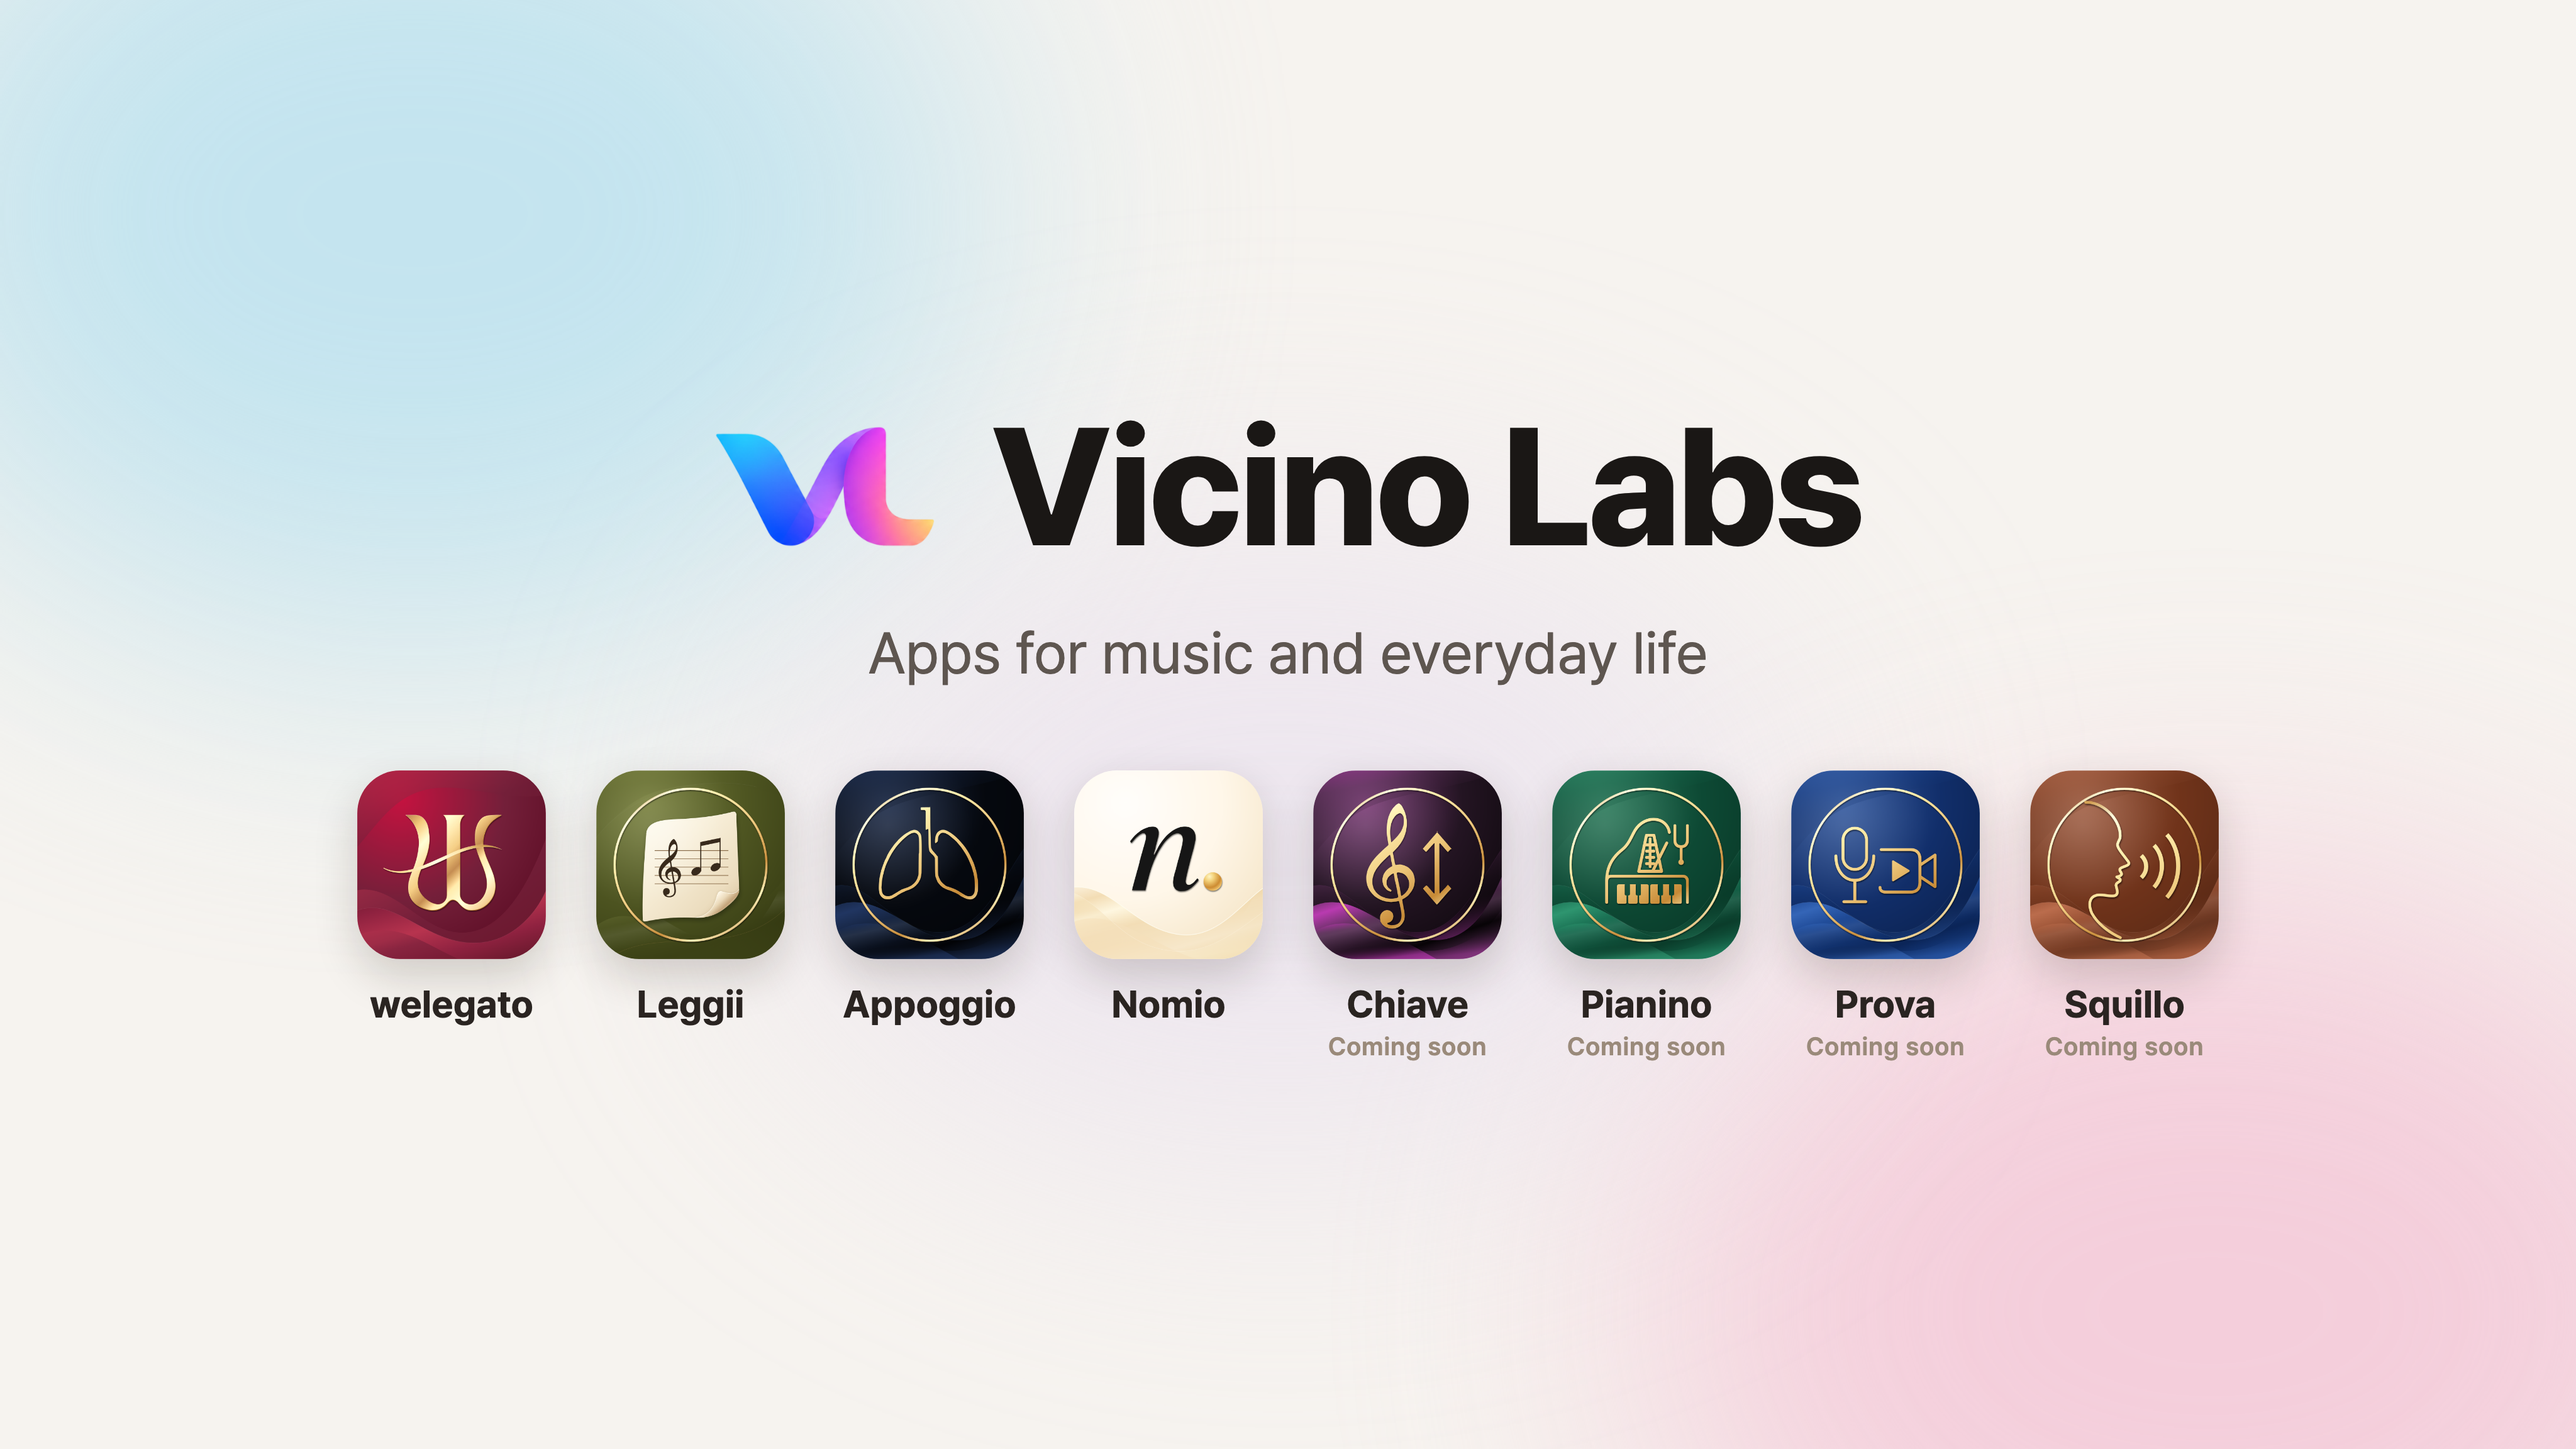
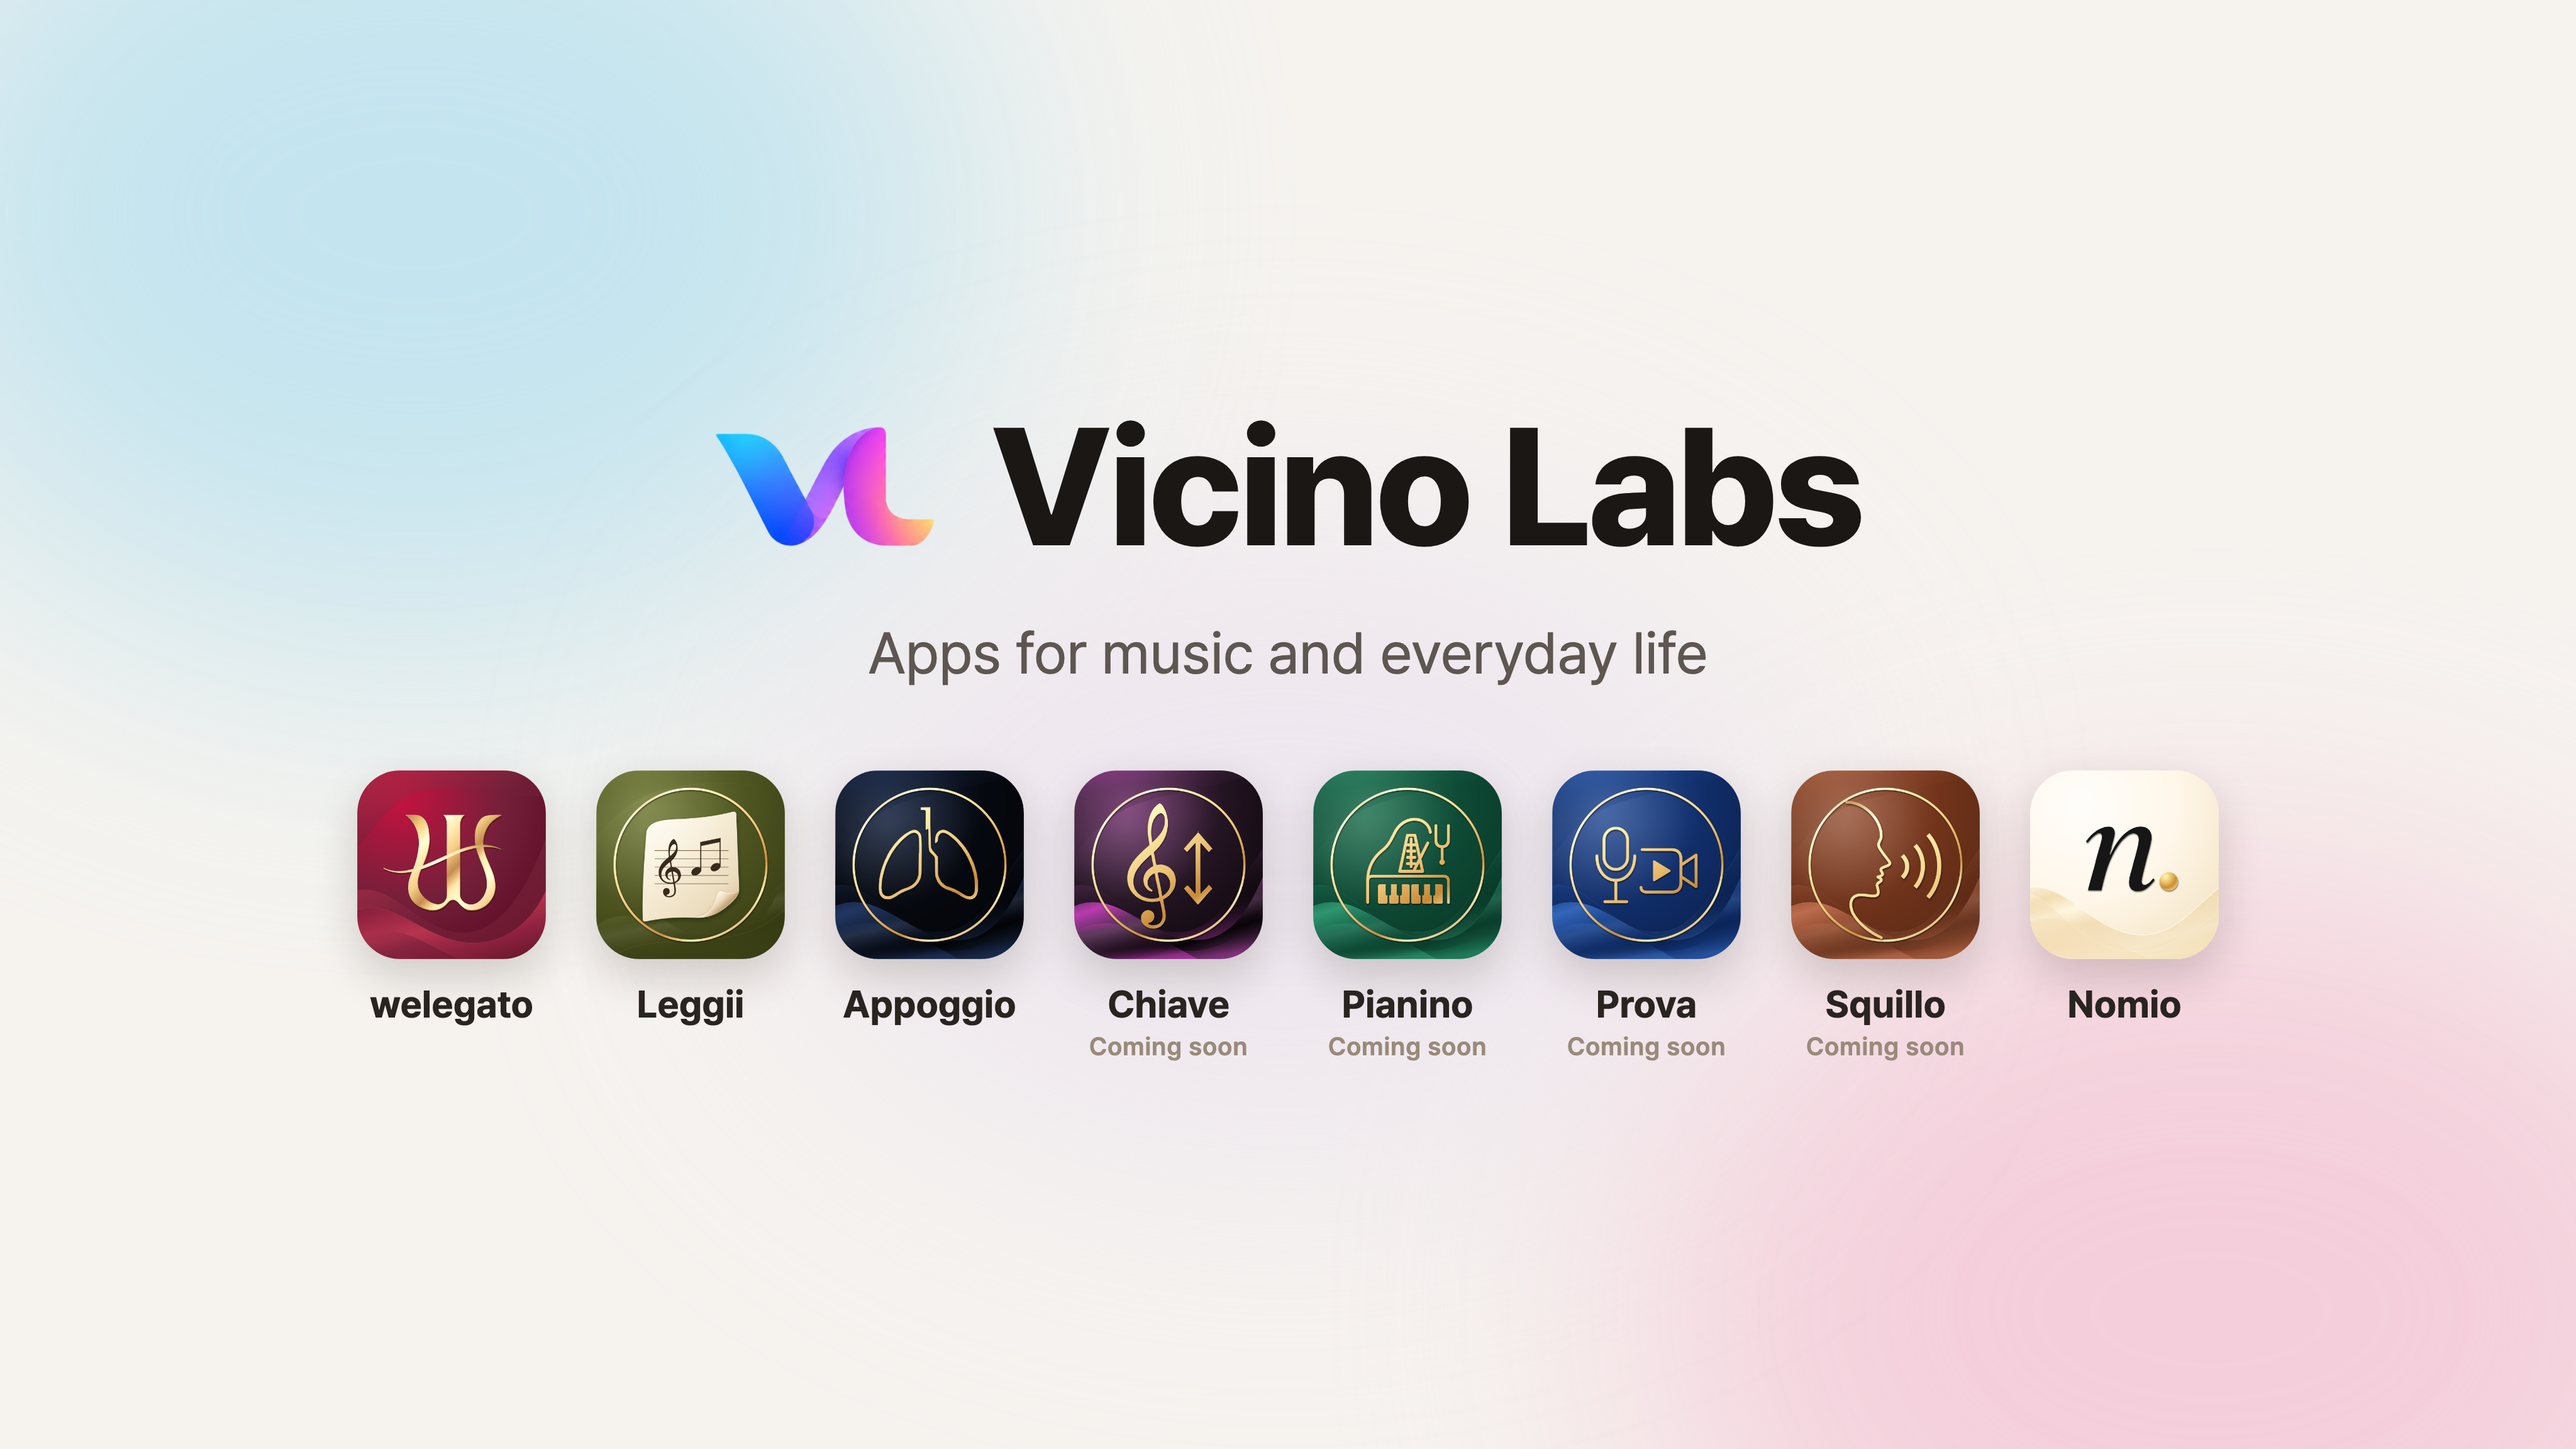
Play 개발자 헤더: 노미오를 맨 오른쪽으로

Changed region(s): [[0.4062, 0.5312, 0.875, 0.75]]

diff --git a/play-dev/header.html b/play-dev/header.html
@@ -27,6 +27,6 @@ body{width:2048px;height:1152px;overflow:hidden;font-family:'Pretendard',sans-se
 <script>
 // 2026-11-08 최종 아이콘(/Users/jameslee/App/brand/vicino-icons-final-2026-10-28, 렛지 올리브). 출시된 앱 먼저.
 const F='file:///Users/jameslee/App/brand/vicino-icons-final-2026-10-28/';
-const apps=[['welegato','welegato',0],['Leggii','leggii',0],['Appoggio','appoggio',0],['Nomio','nomio',0],['Chiave','chiave',1],['Pianino','pianino',1],['Prova','prova',1],['Squillo','squillo',1]].map(([n,d,soon])=>[n,F+d+'/icon-rounded-1024.png',soon]);
+const apps=[['welegato','welegato',0],['Leggii','leggii',0],['Appoggio','appoggio',0],['Chiave','chiave',1],['Pianino','pianino',1],['Prova','prova',1],['Squillo','squillo',1],['Nomio','nomio',0]].map(([n,d,soon])=>[n,F+d+'/icon-rounded-1024.png',soon]);
 document.getElementById('apps').innerHTML=apps.map(([n,s,soon])=>`<div class="app"><img src="${s}"><b>${n}</b><i class="${soon?'':'on'}">Coming soon</i></div>`).join('');
 </script></body></html>
